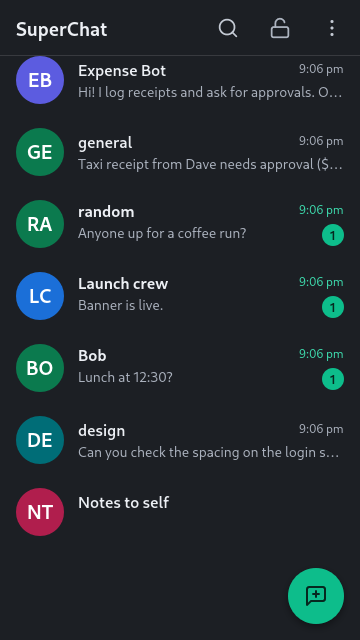
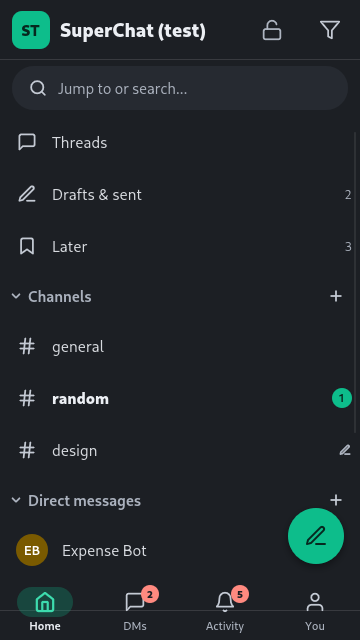
1.2.0: regenerate all desktop and phone screenshots for the new UI
Claude-Session: https://claude.ai/code/session_01RdbzB11xFkq8Fk2STabh7L

diff --git a/README.md b/README.md
@@ -16,12 +16,12 @@ Android (one Slint UI shared by all three), plus a command-line client. Your dat
 * New in 1.1.2: self-service Sign out / Sign out of all devices exist only for users whose admin set Privacy options to Allow (see [docs/RELEASE-NOTES-v1.1.2.md](docs/RELEASE-NOTES-v1.1.2.md)).
 * New in 1.1: tap-to-sign-in links with a QR code, several AI providers, App Lock (PIN-hidden conversations), a phone-friendly admin panel. See [docs/RELEASE-NOTES-v1.1.md](docs/RELEASE-NOTES-v1.1.md). Calls (voice/video) are still planned.
 
-![Desktop app](docs/screenshots/desk-light-regular-chat.png)
+![Desktop app](docs/screenshots/desk-1280-light-regular-home.png)
 
 | | | |
 |---|---|---|
-| ![Dark](docs/screenshots/desk-dark-regular-chat.png) | ![Form](docs/screenshots/desk-light-regular-form.png) | ![Phone](docs/screenshots/phone-light-regular-list.png) |
-| ![App Lock](docs/screenshots/phone-light-regular-lock-screen.png) | ![Login link page](docs/screenshots/mobile-4b-landing-page.png) | ![Admin on a phone](docs/screenshots/mobile-3-users.png) |
+| ![Dark](docs/screenshots/desk-1280-dark-regular-thread-panel.png) | ![Form](docs/screenshots/desk-1280-light-regular-later.png) | ![Phone](docs/screenshots/android-1.2-home-regular.png) |
+| ![App Lock](docs/screenshots/android-1.2-app-lock-hidden.png) | ![Login link page](docs/screenshots/mobile-4b-landing-page.png) | ![Admin on a phone](docs/screenshots/mobile-3-users.png) |
 
 ## Quick start (server)
 

diff --git a/docs/RELEASE-NOTES-v1.2.0.md b/docs/RELEASE-NOTES-v1.2.0.md
@@ -20,3 +20,4 @@ A Slack-style rebuild of the desktop and phone UI on top of 1.1.3, driven by own
 * Layout polish items known on the phone: the New message button can sit over the badge of the last list row when the list is long, and "Jump to first unread" shares the top strip with the date pill.
 * Desktop screenshots come from a private Xvfb session without a window manager; real-desktop IME, clipboard and drag-drop are untested.
 * App Lock is a screen lock, not encryption.
+* Search result snippets show the message's raw markup (for example asterisks) and join lines; this is cosmetic.
